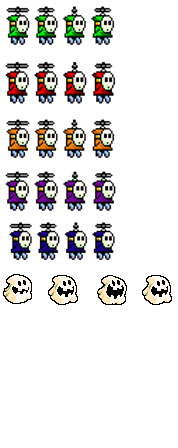
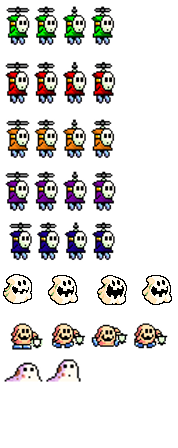
Añadir nuevos enemigos al nivel 2

Changed region(s): [[0.5056, 0.7188, 0.9551, 0.7812], [0.2247, 0.7188, 0.4775, 0.875], [0.0281, 0.7188, 0.2528, 0.875]]

diff --git a/game.js b/game.js
@@ -144,7 +144,14 @@ var game = function () {
             stage.viewport.scale = 2;
             huevos = 0;
             // Planta carnivora
-            stage.insert(new Q.Planta ({x: 2570, y:500}));
+            stage.insert(new Q.Planta ({x: 2140, y:710}));
+            stage.insert(new Q.Planta ({x: 2380, y:710}));
+            stage.insert(new Q.Planta ({x: 2510, y:710}));
+            stage.insert(new Q.Planta ({sheet:"planta2" ,x: 2540, y:660, movimiento: false}));
+
+            //Enemigos terrestres
+            stage.insert(new Q.EnemyTerrestre({ sheet: "enemy10", x: 650, vx: 50, velocidad: 50, y: 550, x_vueltaMin: 649, x_vueltaMax: 730, darVuelta: true, x_reaparicion: 650, y_reaparicion: 550, y_caida: 800 }));
+            stage.insert(new Q.EnemyTerrestre({ sprite: "planta_animations", sheet: "enemy11", x: 1750, vx: 50, velocidad: 50, y: 420, x_vueltaMin: 1700, x_vueltaMax: 1795, darVuelta: true, x_reaparicion: 1750, y_reaparicion: 420, y_caida: 800 }));
            
             // Enemigos fantasmas blancos
             stage.insert(new Q.EnemyVolador({ sheet: "enemy9", x: 1100, y: 390, velocidad: 50, vx: 50, minX: 1070, maxX: 1500, x_reaparicion: 1100, y_reaparicion: 390 }));
@@ -171,6 +178,7 @@ var game = function () {
             
 
         });
+
         Q.scene("levelTutorial", function (stage) {
             nivel = 2;
             Q.stageTMX("tutorial.tmx", stage);
@@ -230,7 +238,7 @@ var game = function () {
         	if (nivel == 0) Q.stageScene("levelTutorial");
             else if (nivel == 1) {
                 console.log("HOLA 1");
-                Q.stageScene("level1");
+                Q.stageScene("level2");
                 //numeroMonedas[nivel] = 0;
             	Q.stageScene("sumaMonedas",1);
             } 
@@ -949,11 +957,12 @@ var game = function () {
                 vy: 0,
                 tiempo: 5,
                 reaparecer: true,
-                izquierda: true
+                izquierda: true,
+                movimiento: true
             });
             this.add('2d, tween, animation');
             //Si le tocan por la izquierda, derecha o por debajo y es el player, pierde
-            this.on("bump.left,bump.right,bump.bottom", function (collision) {
+            this.on("bump.left,bump.right,bump.bottom,bump.top", function (collision) {
                 if (collision.obj.isA("Player")) {
                     Q.stageScene("endGame", 1, { label: "You Died" });
                     collision.obj.destroy();
@@ -974,54 +983,27 @@ var game = function () {
                     collision.obj.destroy();
                 }
             });
-            //Si le salta encima el player lo mata
-            this.on("bump.top", function (collision) {
-                if (collision.obj.isA("Player")) {
-                    console.log("die");
-                    collision.obj.p.vy = -500;
-                    if (this.p.reaparecer) {
-                        var nuevo = new Q.Planta({
-                            sprite: this.p.sprite, sheet: this.p.sheet, reaparecer: this.p.reaparecer, x: this.p.x, y: this.p.y
-                        });
-                        var stag = this.stage;
-                        this.destroy();
-                        window.setTimeout(function () {
-                            stag.insert(nuevo);
-                        }, 10000);
-                    }
-                    else this.destroy();
-                }
-                else if (collision.obj.isA("Egg")) {
-                    huevos = 0;
-                    if (this.p.reaparecer) {
-                        var nuevo = new Q.Planta({
-                            sprite: this.p.sprite, sheet: this.p.sheet, reaparecer: this.p.reaparecer, x: this.p.x, y: this.p.y
-                        });
-                        var stag = this.stage;
-                        this.destroy();
-                        window.setTimeout(function () {
-                            stag.insert(nuevo);
-                        }, 10000);
-                    }
-                    else this.destroy();
-                    collision.obj.destroy();
-                }
-            }); 
-
         },
         step: function (dt) {
         	this.p.tiempo += dt;
-            if (this.p.tiempo >= 5) {
-                if(this.p.izquierda) {
-                	this.play("run_right");
-                	this.p.izquierda = false;
-                }
-                else {
-                	this.play("run_left");
-                	this.p.izquierda = true;
-                }
-                this.p.tiempo = 0;
-            }
+        	if(this.p.movimiento){
+	            if (this.p.tiempo >= 5) {
+	                if(this.p.izquierda) {
+	                	this.play("run_right");
+	                	this.p.izquierda = false;
+	                }
+	                else {
+	                	this.play("run_left");
+	                	this.p.izquierda = true;
+	                }
+	                this.p.tiempo = 0;
+	            }
+        	}
+        	else {
+        		this.p.gravity  = 0;
+        		if(!this.p.izquierda) this.play("run_left");
+        		else this.play("run_right");
+        	}
         }
     });
 }
